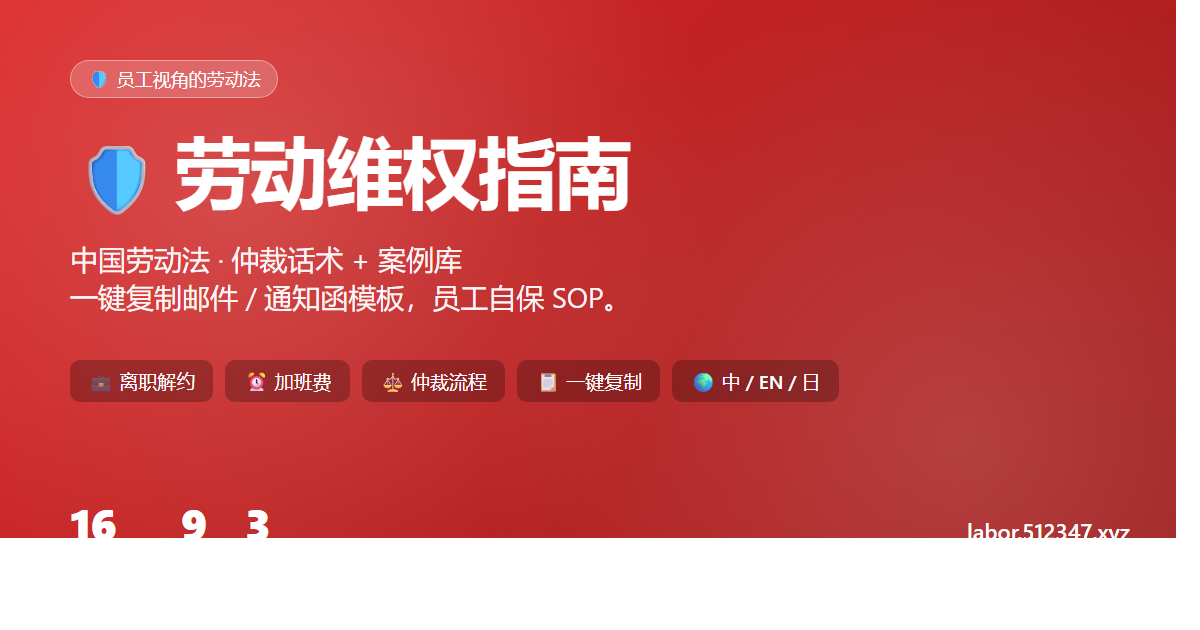
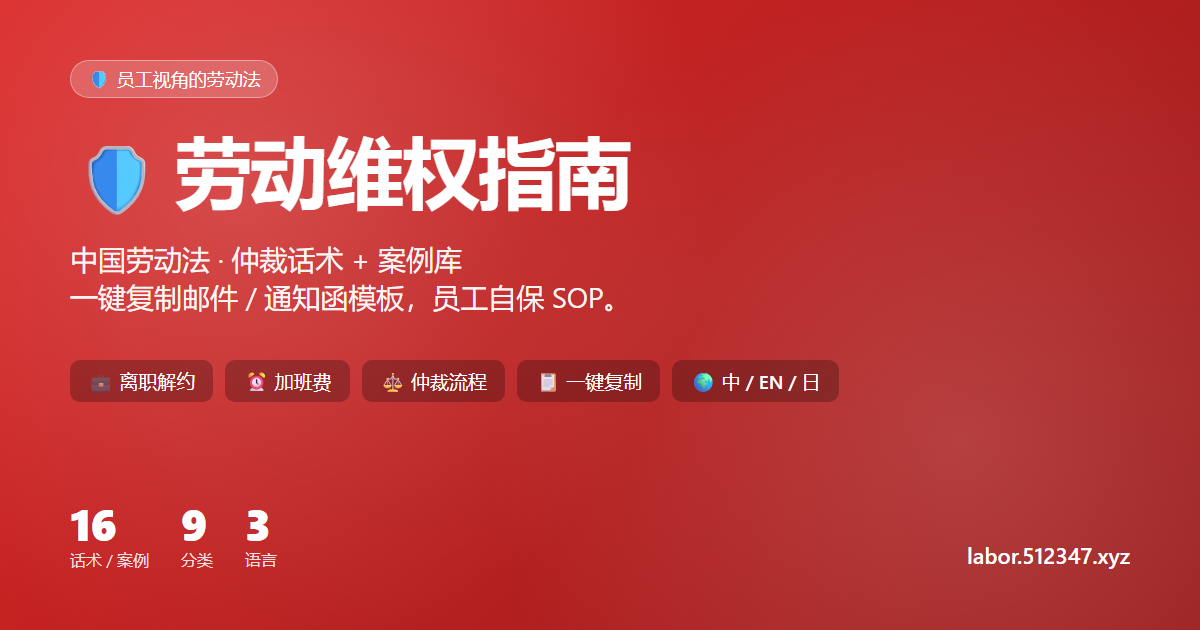
移除站点上的 GitHub 链接与用户名痕迹（隐私清理）
- 删 header GitHub 链接 + meta author
- footer 去除指向仓库的链接
- 重新生成 og-image.png（去掉图上 github.com/HowCanLove 字样）

Changed region(s): [[0.0, 0.0, 1.0, 1.0]]

diff --git a/index.html b/index.html
@@ -6,7 +6,6 @@
 
   <meta name="description" content="中国劳动法 / 仲裁实用话术 + 案例库（员工视角）。N / N+1 / 2N 计算、加班费、试用期陷阱、社保维权、解除合同等常见场景，附一键复制邮件 / 通知函模板。">
   <meta name="keywords" content="劳动法, 劳动仲裁, 员工维权, N+1, 2N, 经济补偿金, 加班费, 试用期, 社保补缴, 调岗降薪, 自愿离职, HR 话术, 中国劳动法">
-  <meta name="author" content="HowCanLove">
   <meta name="theme-color" content="#dc2626">
   <link rel="canonical" href="https://labor.512347.xyz/">
   <title>劳动维权指南 · 员工话术 + 仲裁案例 · 一键复制模板</title>
@@ -50,10 +49,6 @@
     <div class="header-inner">
       <h1 class="site-title" data-i18n="site.title">🛡 劳动维权指南</h1>
       <p class="site-tagline" data-i18n="site.tagline">员工视角的劳动法话术 + 案例 · 一键复制邮件模板</p>
-      <a class="header-link" href="https://github.com/HowCanLove/useful-labor" target="_blank" rel="noopener">
-        <svg height="20" viewBox="0 0 16 16" width="20" fill="currentColor"><path d="M8 0C3.58 0 0 3.58 0 8c0 3.54 2.29 6.53 5.47 7.59.4.07.55-.17.55-.38 0-.19-.01-.82-.01-1.49-2.01.37-2.53-.49-2.69-.94-.09-.23-.48-.94-.82-1.13-.28-.15-.68-.52-.01-.53.63-.01 1.08.58 1.23.82.72 1.21 1.87.87 2.33.66.07-.52.28-.87.51-1.07-1.78-.2-3.64-.89-3.64-3.95 0-.87.31-1.59.82-2.15-.08-.2-.36-1.02.08-2.12 0 0 .67-.21 2.2.82.64-.18 1.32-.27 2-.27.68 0 1.36.09 2 .27 1.53-1.04 2.2-.82 2.2-.82.44 1.1.16 1.92.08 2.12.51.56.82 1.27.82 2.15 0 3.07-1.87 3.75-3.65 3.95.29.25.54.73.54 1.48 0 1.07-.01 1.93-.01 2.2 0 .21.15.46.55.38A8.013 8.013 0 0016 8c0-4.42-3.58-8-8-8z"/></svg>
-        <span data-i18n="header.github">GitHub</span>
-      </a>
     </div>
   </header>
 

diff --git a/app.js b/app.js
@@ -511,7 +511,7 @@ function loadCategory() {    try {      const saved = localStorage.getItem(CATEG
 
     const footer = document.getElementById('footerText');
     if (footer) {
-      const linkHTML = `<a href="https://github.com/HowCanLove/useful-software/edit/main/data.js" target="_blank" rel="noopener">${t('footer.linkText')}</a>`;
+      const linkHTML = t('footer.linkText');
       footer.innerHTML = t('footer.text', { link: linkHTML, n: CATALOG.length });
     }
 

diff --git a/scripts/og-template.html b/scripts/og-template.html
@@ -49,7 +49,6 @@
   </div>
   <div class="url">
     labor.512347.xyz
-    <small>github.com/HowCanLove/useful-labor</small>
   </div>
 </body>
 </html>
